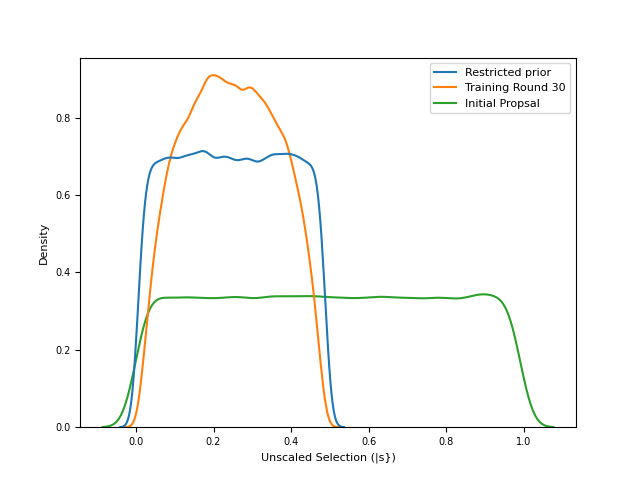
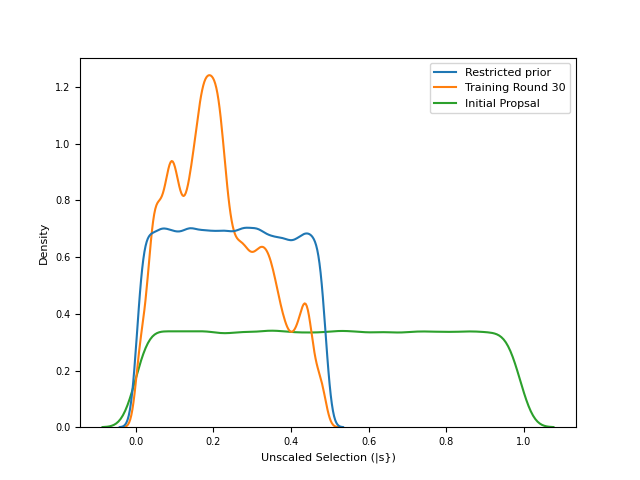
changed how to create plots and calculated bins of selection cofficients

diff --git a/loading_checks.py b/loading_checks.py
@@ -142,10 +142,11 @@ class SummaryNet7(nn.Module):
 the_device='cuda:0'
 
 
+bins = [0, 1e-5, 1e-4, 1e-3, 1e-2, 1e-1]
 prior = utils.BoxUniform(low=-0.990 * torch.ones(1, device=the_device), high=-1e-8*torch.ones(1,device=the_device),device=the_device)
 
 
-saved_path='Experiments/saved_posteriors_nfe_infer_missense_selection_monarch_2023-03-07_14-47'
+saved_path='Experiments/saved_posteriors_nfe_infer_lof_selection_monarch_nsf22023-03-13_10-40'
 
 
 
@@ -154,22 +155,23 @@ obs_dict = dict()
 post_dict = dict()
 
 for i, a_file in enumerate(lsdirs):
-    if 'observed' in a_file:
+    if 'observed' in a_file and 'last' not in a_file:
         round_num = int(re.search("\d+", a_file)[0])
         post_obs = torch.load(f'{saved_path}/{a_file}')
         samples = post_obs.sample((100000,))/2.0
         obs_dict[round_num] = samples.cpu().squeeze().numpy()
-        if i < len(lsdirs)-1:
-            del post_obs
-    else:
+        #if i < len(lsdirs)-1:
+        #    del post_obs
+    elif 'posterior' in a_file and 'observed' not in a_file and 'last' not in a_file:
+        print(a_file)
         round_num = int(re.search("\d+", a_file)[0])
         post = torch.load(f'{saved_path}/{a_file}')
         samples = post.sample((100000,))/2.0
         post_dict[round_num] = samples.cpu().squeeze().numpy()
-        if i < len(lsdirs)-1:
-            del post
+        #if i < len(lsdirs)-1:
+        #    del post
 
-post_obs = torch.load(f'{saved_path}/{lsdirs[-1]}')
+#post_obs = torch.load(f'{saved_path}/{lsdirs[-1]}')
 
 #post_dict['intial'] = prior.sample((100000,)).cpu().squeeze().numpy()
 #obs_dict['intial'] = prior.sample((100000,)).cpu().squeeze().numpy()
@@ -178,17 +180,13 @@ postdf = pd.DataFrame.from_dict(post_dict)
 obsdf = pd.DataFrame.from_dict(obs_dict)
 
 
-bins = [0, 10e-5, 10e-4, 10e-3, 10e-2, 10e-1]
-
-
-
 sns.kdeplot(obsdf, label=obsdf.columns)
 
 plt.xlabel('Unscaled Selection (|s|)')
 plt.ylabel('Density')
 plt.title('Density Selection Coefficients Sampled from Inferred Distributions of round')
 plt.tight_layout()
-plt.savefig('para_missense_monarch_obs_nsf_30.png')
+plt.savefig('para_lof_monarch_obs_nsf_30.png')
 plt.close()
 
 
@@ -199,7 +197,7 @@ plt.xlabel('Unscaled Selection (log{|s|))')
 plt.ylabel('Density')
 plt.title('Density Selection Coefficients Sampled from Inferred Distributions of round')
 plt.tight_layout()
-plt.savefig('para_missense__monarch_obs_log_nsf_30.png')
+plt.savefig('para_lof__monarch_obs_log_nsf_30.png')
 plt.close()
 
 '''
@@ -239,8 +237,14 @@ plt.close()
 #obs90 = torch.load('/home/rahul/PopGen/SimulationSFS/Experiments/saved_posteriors_nfe_infer_lof_selection_nvsl_2023-03-02_07-27/posterior_observed_round_30.pkl')
 #post90 = torch.load('/home/rahul/PopGen/SimulationSFS/Experiments/saved_posteriors_nfe_infer_lof_selection_nvsl_2023-03-02_07-27/posterior_round_30.pkl')
 
-accept_reject_fn = get_density_thresholder(post_obs, quantile=1e-6)
+
+#max_round = max(list(postdf.columns))
+
+#post_obs = postdf[max_round]
+
+accept_reject_fn = get_density_thresholder(post_obs, quantile=1e-5)
 proposal = RestrictedPrior(prior, accept_reject_fn, post_obs, sample_with="sir", device=the_device)
+
 
 dfe = proposal.sample((100000,))/2.0
 temp3 = -1*torch.cat((dfe, post_obs.sample((100000,))/2.0, prior.sample((100000,))),dim=1)
@@ -250,7 +254,7 @@ temp4 = torch.log10(torch.abs(temp3.squeeze()))
 sns.kdeplot(df3, label=['Restricted Round 90', 'Training Round 30', 'Initial Proposal'])
 plt.xlabel('Unscaled Selection (|s})')
 plt.ylabel('Density')
-plt.savefig('para_dfe_misenese_monarch_nsf_30.png')
+plt.savefig('para_dfe_misenese_monarch_nsf_lof_30.png')
 plt.close()
 temp4 = torch.log10(torch.abs(temp3.squeeze()))
 df4 = pd.DataFrame(temp4.cpu().numpy(), columns=['DFE Round 90', 'Training Round 90', 'Initial Propsal'])
@@ -258,4 +262,22 @@ df4 = pd.DataFrame(temp4.cpu().numpy(), columns=['DFE Round 90', 'Training Round
 sns.kdeplot(df4, label=['DFE Round 90', 'Training Round 30', 'Initial Proposal'])
 plt.xlabel('Unscaled Selection (log(|s|)})')
 plt.ylabel('Density')
-plt.savefig('para_dfe_monarch_log_miense_nsf_30.png')
+plt.savefig('para_dfe_monarch_log_lof_nsf_30.png')
+
+
+dfe2 = proposal.sample((500000,))/2.0
+dfe2 = np.abs(dfe2.squeeze().cpu().numpy())
+
+for s0, s1 in zip(bins[:-1], bins[1:]):
+    the_dat=np.extract((s0 <= dfe2) & (dfe2 < s1), dfe2)
+    prop = the_dat.shape[0]/500000.0
+    print(f"{s0} <= s < {s1}: {prop:.7f}")
+    if s1 == bins[-1]:
+        the_dat=np.extract(dfe2 > s1, dfe2)
+        prop = the_dat.shape[0]/500000.0
+        print(f"s > {s1}: {prop:.7f}")
+
+
+
+
+

diff --git a/create_sim_dataset.py b/create_sim_dataset.py
@@ -60,12 +60,12 @@ def create_hdf5_dataset(data_path: str, file_name: str):
 
 def main():
 
-    missense_data_path = 'missense_sim_sfs_data/'
+    #missense_data_path = 'missense_sim_sfs_data/'
     #lof_data_path = '/home/rahul/PopGen/SimulationSFS/ParallelPopGen_Data/sfs_sims_lof_avg_rate/'
     #lof_data_path2 = '/home/rahul/PopGen/SimulationSFS/cur_data_made_02_22/'
-
-    file_name = 'sfs_missense_hdf5_data.h5'
-    create_hdf5_dataset(missense_data_path, file_name)
+    lof_data_path = 'lof_sim_sfs_data/'
+    file_name = 'sfs_lof_hdf5_data.h5'
+    create_hdf5_dataset(lof_data_path, file_name)
 
 
 if __name__ == "__main__":
